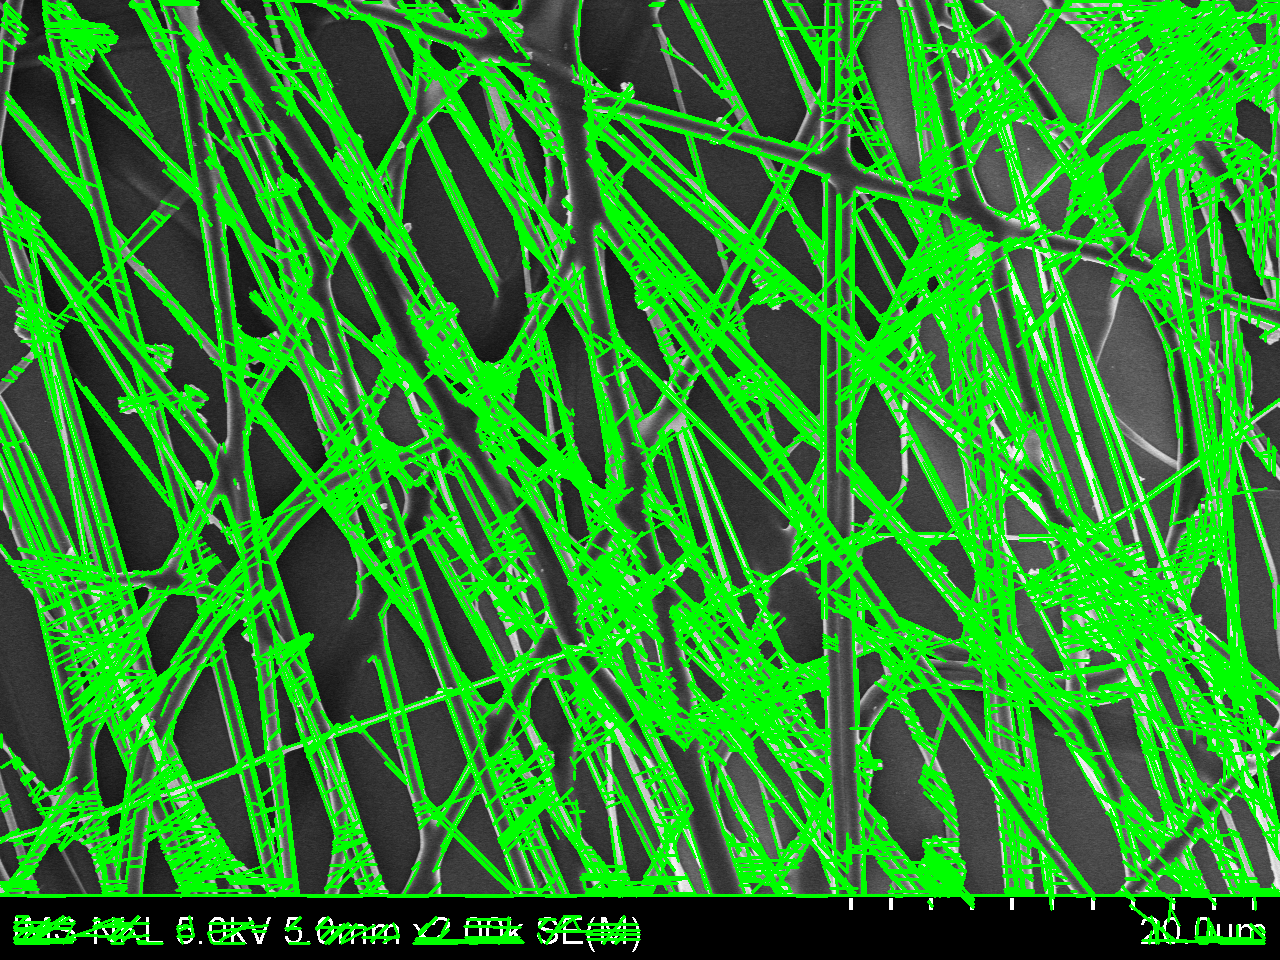
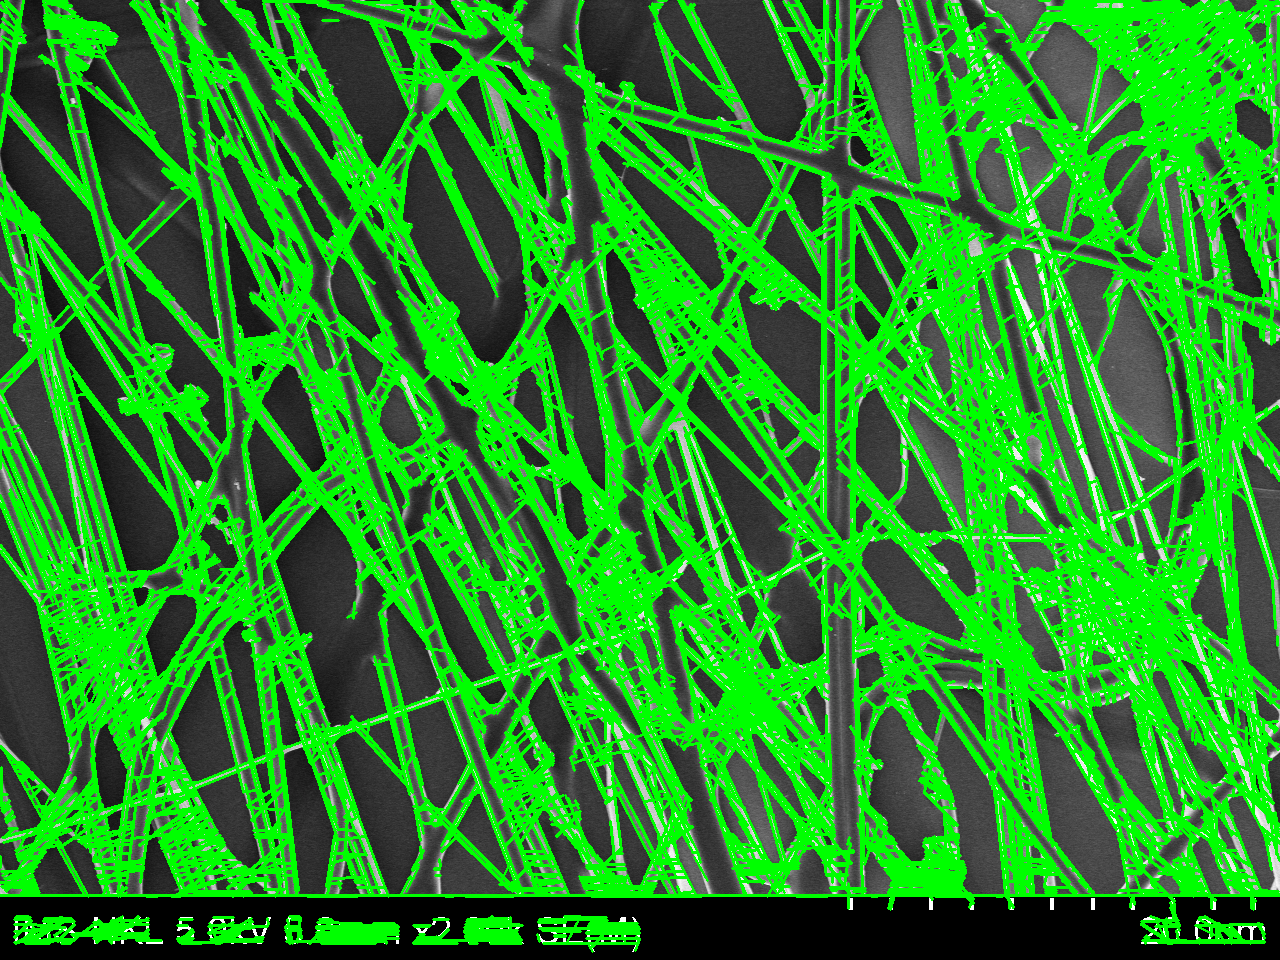
test

diff --git a/line_detect.py b/line_detect.py
@@ -10,14 +10,13 @@ gray = cv2.cvtColor(image, cv2.COLOR_BGR2GRAY)
 # Use canny edge detection
 edges = cv2.Canny(gray, 50, 150, apertureSize=3)
 
-# Apply HoughLinesP method to
-# to directly obtain line end points
+# Apply HoughLinesP method to directly obtain line end points
 lines_list = []
 lines = cv2.HoughLinesP(
     edges,  # Input edge image
     1,  # Distance resolution in pixels
     np.pi / 180,  # Angle resolution in radians
-    threshold=100,  # Min number of votes for valid line
+    threshold=60,  # Min number of votes for valid line
     minLineLength=5,  # Min allowed length of line
     maxLineGap=10  # Max allowed gap between line for joining them
 )
@@ -34,3 +33,14 @@ for points in lines:
 
 # Save the result image
 cv2.imwrite('detectedLines.png', image)
+
+img_canny = cv2.Canny(gray, 50, 50)
+img_dilate = cv2.dilate(img_canny, None, iterations=1)
+img_erode = cv2.erode(img_dilate, None, iterations=1)
+
+mask = np.full(gray.shape, 255, "uint8")
+contours, hierarchies = cv2.findContours(img_erode, cv2.RETR_TREE, cv2.CHAIN_APPROX_NONE)
+for cnt in contours:
+    cv2.drawContours(mask, [cnt], -1, 0, -1)
+
+cv2.imwrite('result_draw.png', mask)
